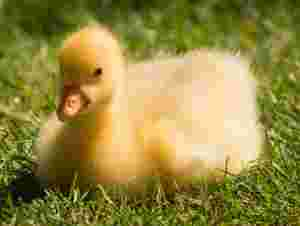
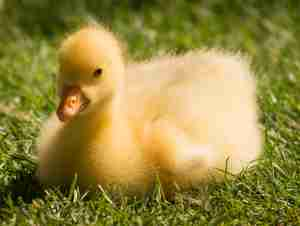
increased xsmall quality to 20 from 10

diff --git a/Gruntfile.js b/Gruntfile.js
@@ -16,7 +16,7 @@ module.exports = function(grunt) {
           sizes: [{
             name: "xsmall",
             width: 300,
-            quality: 10
+            quality: 20
             
           },
           {

diff --git a/index.html b/index.html
@@ -50,7 +50,7 @@
     </picture>
 
     <!-- section 3 bottom pictures -->
-    
+    <h2>Featured Work</h2>
 
 
 
